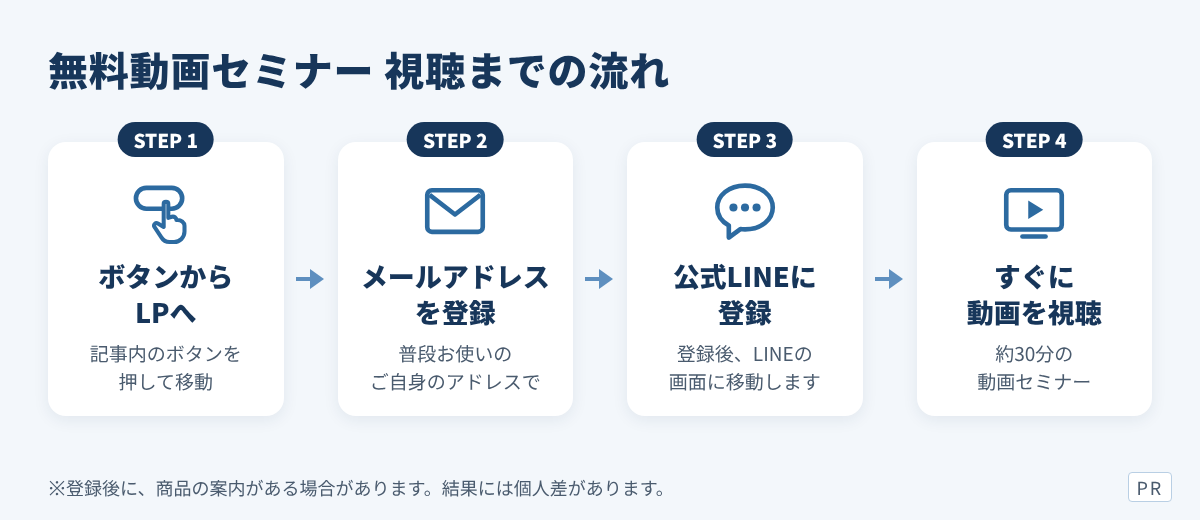
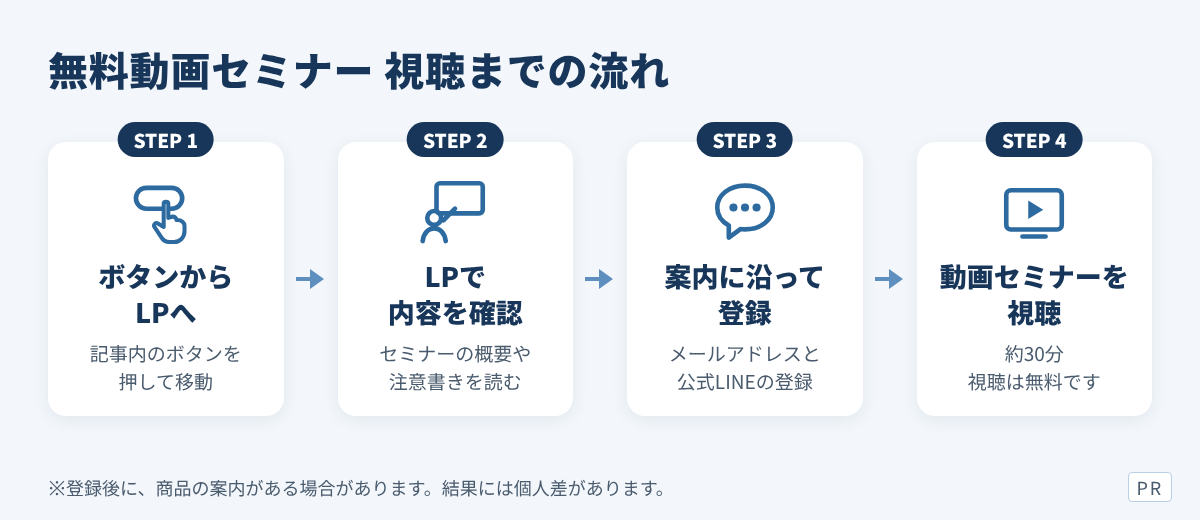
Soften CTA wording: avoid 'just register email' framing; 'free to watch, if interested'
Claude-Session: https://claude.ai/code/session_012RfpWF9B5YGzRATWipR9nb

diff --git a/affiliate-articles/image-src/render.js b/affiliate-articles/image-src/render.js
@@ -272,7 +272,7 @@ images.push({
       <div style="font-size:15px;font-weight:700;margin-top:4px">約30分</div>
     </div>
     <div style="position:relative;flex:1">
-      <div style="font-size:21px;font-weight:700;color:#D9EAFB;letter-spacing:.04em">登録後、すぐに視聴できます</div>
+      <div style="font-size:21px;font-weight:700;color:#D9EAFB;letter-spacing:.04em">興味があれば、よかったら</div>
       <div style="font-size:35px;font-weight:900;letter-spacing:.02em;margin-top:4px;white-space:nowrap;text-shadow:0 2px 0 rgba(0,0,0,.18)">無料動画セミナーの概要を見る</div>
     </div>
     <div style="position:relative;flex:none;width:62px;height:62px;border-radius:50%;background:#fff;display:flex;align-items:center;justify-content:center">
@@ -299,11 +299,11 @@ images.push({
   <div style="display:flex;align-items:center;gap:10px;margin-top:44px">
     ${stepCard(1, 'tap', 'ボタンから<br>LPへ', '記事内のボタンを<br>押して移動')}
     ${arrowR(34)}
-    ${stepCard(2, 'mail', 'メールアドレス<br>を登録', '普段お使いの<br>ご自身のアドレスで')}
+    ${stepCard(2, 'seminar', 'LPで<br>内容を確認', 'セミナーの概要や<br>注意書きを読む')}
     ${arrowR(34)}
-    ${stepCard(3, 'chat', '公式LINEに<br>登録', '登録後、LINEの<br>画面に移動します')}
+    ${stepCard(3, 'chat', '案内に沿って<br>登録', 'メールアドレスと<br>公式LINEの登録')}
     ${arrowR(34)}
-    ${stepCard(4, 'video', 'すぐに<br>動画を視聴', '約30分の<br>動画セミナー')}
+    ${stepCard(4, 'video', '動画セミナーを<br>視聴', '約30分<br>視聴は無料です')}
   </div>
   <div style="position:absolute;left:48px;bottom:20px;font-size:18px;color:${C.sub}">※登録後に、商品の案内がある場合があります。結果には個人差があります。</div>
 </div>

diff --git a/affiliate-articles/note-01.md b/affiliate-articles/note-01.md
@@ -112,7 +112,7 @@
 
 - 「光速アフィリエイト」という名称の、約30分の無料動画セミナーです
 - 動画セミナーのほかに、無料コンサルも、提供内容として案内されています
-- LPでメールアドレスを登録すると、公式LINEの登録に進み、LINE登録後すぐに動画を視聴できる流れです
+- LPの案内に沿って進むと、動画を視聴できます(途中で、メールアドレスと公式LINEの登録があります)
 - LPでは、本業の合間のスキマ時間で行うアフィリエイト手法として、紹介されています
 - SNSやブログでの集客は、必須ではない手法として、説明されています
 
@@ -141,7 +141,7 @@
 
 この記事が、あなたが落ち着いて学び始めるための、きっかけになればうれしいです。
 
-学び方の選択肢の一つとして、セミナーの概要を見てみたい方は、次のリンクからLPを確認してみてください。視聴までの流れは、次のとおりです。
+セミナーを見るだけなら無料なので、学び方の選択肢の一つとして、よかったら概要をのぞいてみてください。視聴までの流れは、次のとおりです。
 
 【画像:steps-01.png】
 

diff --git a/affiliate-articles/README.md b/affiliate-articles/README.md
@@ -37,7 +37,7 @@
 | x-01.png(成果報酬型の広告/4者) | 1200×675 | X | 投稿1 |
 | x-02.png(広告アフィ:始める前に確認したい3つ) | 1200×675 | X | 投稿2 |
 | x-03.png(学び方は大きく3つ) | 1200×675 | X | 投稿3 |
-| steps-01.png(視聴までの流れ:LP→メール登録→公式LINE登録→視聴) | 1200×520 | Ameba・note | まとめ/おわりの、ボタン画像の直前 |
+| steps-01.png(視聴までの流れ:LPへ→内容を確認→案内に沿って登録→視聴) | 1200×520 | Ameba・note | まとめ/おわりの、ボタン画像の直前 |
 | button-01.png(無料動画セミナーの概要を見る) | 840×250 | Ameba・note | まとめ/おわりの、リンクの直前 |
 
 すべての画像は、落ち着いた青系・Noto Sans JP で作成し、右下に小さく「PR」を入れています。セミナーの手法や収益に関する図、講師の写真、他社ロゴは使っていません。

diff --git a/affiliate-articles/x-posts.md b/affiliate-articles/x-posts.md
@@ -73,8 +73,8 @@ PR(アフィリエイトリンクを含みます)
 ```
 PR(アフィリエイトリンクを含みます)
 
-LPでは、SNSやブログでの集客が必須ではない手法と説明されている無料動画セミナー。
+LPでは、SNSやブログでの集客が必須ではない手法と説明されている動画セミナー。
 
-登録はご自身の普段使いのメールで。収益は保証されず、登録後に商品の案内がある場合も。判断はご自身で。
+見るだけなら無料なので、気になる方はよかったら。収益は保証されず、登録後に商品の案内がある場合もあります。
 {SEMINAR_URL}
 ```
